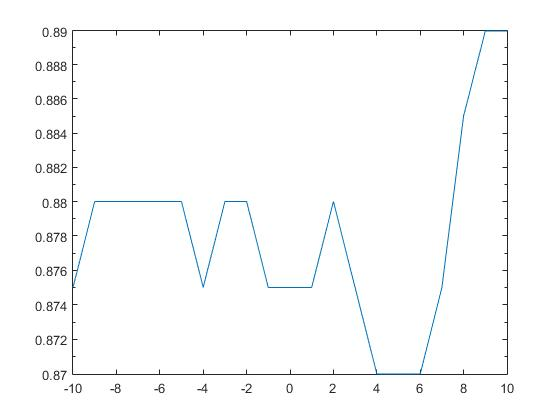
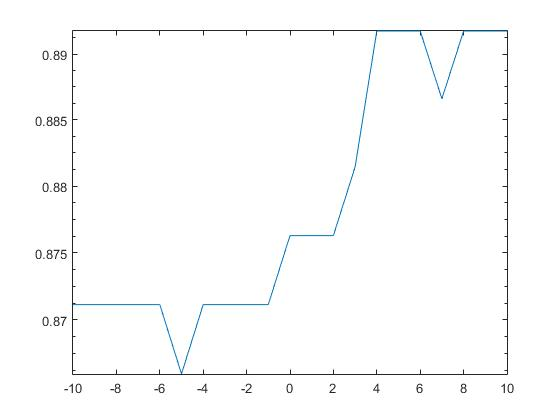
modified fsk modulation

diff --git a/Simulink -With Rasied Cosine/PerformanceRC.m b/Simulink -With Rasied Cosine/PerformanceRC.m
@@ -2,7 +2,7 @@ y = zeros(21,1);
 snr = -10:1:10;
 for i=-10:1:10
 x = i;
-sim('QAM64_RC');
+sim('FSK_RC');
 y(i+11)= simout(1);
 end
 figure

diff --git a/Simulink -Without Rasied Cosine/Performance.m b/Simulink -Without Rasied Cosine/Performance.m
@@ -2,7 +2,7 @@ y = zeros(21,1);
 snr = -10:1:10;
 for i=-10:1:10
 x = i;
-sim('QAM64');
+sim('FSK');
 y(i+11)= simout(1);
 end
 figure
